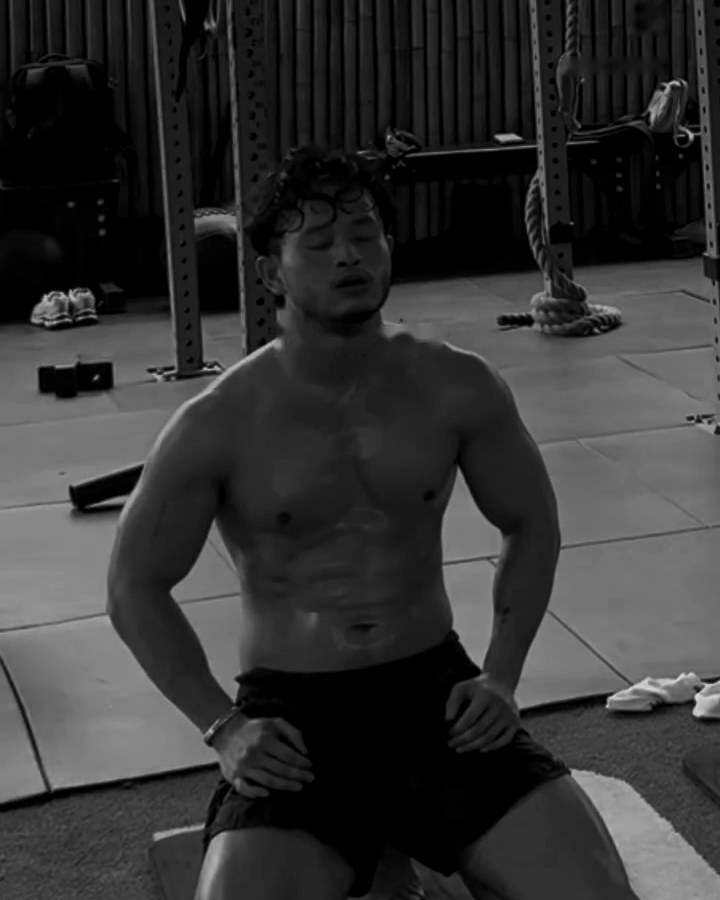
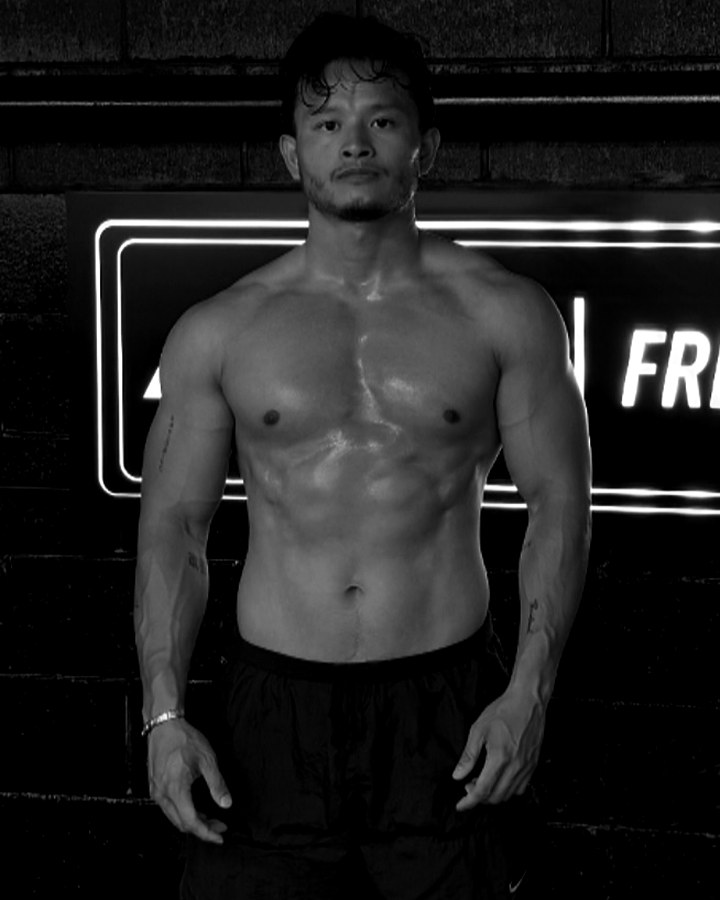
Use Alex's supplied before/after photos and add his portrait to About
Replace the reel frames in "Alex's journey" with the before/after photos
the project owner supplied, cropped to matching 4:5 framing and graded
black and white by scripts/supplied_photos.py (sources in assets/journey/).
His gym portrait becomes site.photos.about and leads the About row, which
stays three photos. The Before/Now tags move to the bottom corner so they
no longer cover his face on phones.

Claude-Session: https://claude.ai/code/session_01EqBEUoduZxMrd1bR9zTm1E

diff --git a/src/content/journey.ts b/src/content/journey.ts
@@ -26,12 +26,13 @@ export const journey: Journey = {
   intro:
     "Alex didn't start out as a coach. His own change came from turning up and getting 1% better every day. Now he helps others do the same: build strength, move better and improve their fitness, in classes, one-to-one and online.",
   chapters: [],
-  // Both from Alex's reel; overlays removed by scripts/journey_photos.py.
+  // Supplied by the project owner 2026-10-17 (sources in assets/journey/),
+  // cropped and graded by scripts/supplied_photos.py.
   before: { src: "/journey/before.jpg", width: 720, height: 900, alt: "Alex before he started kettlebell training" },
   after: { src: "/journey/after.jpg", width: 720, height: 900, alt: "Alex today, lean and muscular after kettlebell training" },
   beforeLabel: "Before",
   afterLabel: "Now",
-  caption: "Alex, before he started training and today. Both from his own reel.",
+  caption: "Alex, before he started training and today.",
   // Empty: the follower count is shown in "About Alex" directly above, and
   // "3 ways to train" said nothing new. Add real milestones from Alex here.
   highlights: [],

diff --git a/src/app/page.tsx b/src/app/page.tsx
@@ -1,6 +1,7 @@
 import type { Metadata } from "next";
 import Image from "next/image";
 import { site } from "@/content/site";
+import type { Photo } from "@/content/types";
 import { pageMetadata } from "@/lib/metadata";
 import { getPrimaryCta } from "@/lib/booking";
 import { cn } from "@/lib/cn";
@@ -129,7 +130,8 @@ function Benefits() {
 
 
 function About() {
-  const stills = site.trainingStills;
+  // Alex's portrait leads the row; it stays three photos either way.
+  const stills = [site.photos.about, ...site.trainingStills].filter((p): p is Photo => p !== null).slice(0, 3);
   const { instagram } = site.social;
   return (
     <Section id="about" labelledBy="about-heading">

diff --git a/src/components/sections/Journey.tsx b/src/components/sections/Journey.tsx
@@ -24,7 +24,8 @@ function PhotoFrame({ photo, label, slot }: { photo: Photo | null; label: string
           <span className="break-all text-xs">public/journey/{slot}.jpg</span>
         </div>
       )}
-      <span className="eyebrow absolute top-3 left-3 bg-paper px-2 py-1 text-ink">{label}</span>
+      {/* Bottom corner: at the top the tag covered his face on phones. */}
+      <span className="eyebrow absolute bottom-3 left-3 bg-paper px-2 py-1 text-ink">{label}</span>
     </div>
   );
 }

diff --git a/src/content/site.ts b/src/content/site.ts
@@ -98,7 +98,13 @@ export const site = {
   /** Genuine photos of Alex / his coaching only. Empty until supplied. */
   photos: {
     hero: null as Photo | null,
-    about: null as Photo | null,
+    // Supplied by the project owner 2026-10-17; cut by scripts/supplied_photos.py.
+    about: {
+      src: "/images/alex/about.jpg",
+      width: 720,
+      height: 900,
+      alt: "Alex standing in the gym among kettlebells",
+    } as Photo | null,
   },
 } as const;
 

diff --git a/scripts/supplied_photos.py b/scripts/supplied_photos.py
@@ -1,0 +1,42 @@
+"""Cut the photos of Alex supplied by the project owner (2026-10-17).
+
+Sources live in assets/journey/. Each is cropped to 4:5, resized to 720x900
+and given the hero video's black-and-white grade. The before/after pair use
+the same framing (head to waistband).
+
+Usage (needs Pillow):
+    python3 scripts/supplied_photos.py
+Outputs: public/journey/before.jpg, public/journey/after.jpg,
+         public/images/alex/about.jpg
+"""
+
+from pathlib import Path
+
+from PIL import Image, ImageOps
+
+ROOT = Path(__file__).resolve().parent.parent
+SRC_DIR = ROOT / "assets/journey"
+
+# source name: (output path, (x, y, width) of a 4:5 crop in the source)
+SHOTS = {
+    "before": ("public/journey/before.jpg", (0, 0, 1525)),  # 1525x1920 phone photo at home
+    "after": ("public/journey/after.jpg", (0, 20, 654)),  # 654x960 gym photo
+    "about": ("public/images/alex/about.jpg", (0, 20, 900)),  # 1206x1357, head to knees among the kettlebells
+}
+
+
+def main():
+    for name, (dest, (x, y, w)) in SHOTS.items():
+        image = ImageOps.exif_transpose(Image.open(SRC_DIR / f"{name}-source.jpg"))
+        h = round(w * 5 / 4)
+        crop = image.crop((x, y, x + w, y + h)).resize((720, 900), Image.LANCZOS)
+        # Same black-and-white grade as the hero video: slight contrast lift around mid-grey.
+        graded = ImageOps.grayscale(crop).point(lambda v: max(0, min(255, round((v - 128) * 1.08 + 128))))
+        out = ROOT / dest
+        out.parent.mkdir(parents=True, exist_ok=True)
+        graded.save(out, quality=88, optimize=True, progressive=True)
+        print(f"{name}: {out}")
+
+
+if __name__ == "__main__":
+    main()

diff --git a/DESIGN.md b/DESIGN.md
@@ -86,6 +86,7 @@ Display sizes were tuned so the longest word ("CUMBERNAULD") fits at 320 px.
 - Hero video (`site.heroVideo`): 4:5, black and white, silent, ~8 s loop of genuine footage — the visual centrepiece. Desktop (lg+): the right half of the grid, width `min(100%, (100svh − 7rem) × 0.8, 44rem)` with the height from the 4:5 ratio (never cropped or stretched), so headline, "Start your training" button and the whole video sit in the first view at 1024×768, 1366×768 and 1440×900 (564×705 px at 1440×900). The headline uses `text-display-split` at lg. Phones (<640 px): the video edge to edge directly under the header (it breaks out of the page gutters with `-mx-4`) at its full 4:5 frame, `object-fit: contain`, never cropped (390×488 on a 390 px phone). The headline (paper), the intro line beneath it (no eyebrow above it) (`site.location.town`: "Expert kettlebell coaching in Cumbernauld. Build strength, improve technique and move with confidence.") and a paper "Start your training" button sit over the lower part of the video on an ink fade (`from-ink/90 via-ink/70 via-65%`), so the whole video, headline and button fit the first screen even with Safari's toolbar showing. On phones the headline may start as high as 40% down the video (at 320 px the intro wraps to three lines). The pause button moves to the top right. DOM order (headline, button, video) is unchanged. Below lg the top 22% of the frame fades from `ink` into the footage (`from-ink via-ink/40`), so the ink header and the video read as one block; on tablets a 1.5rem `ink` strip also fills the gap between the header and the video. Both are decorative, `aria-hidden` overlays that change no sizes, and desktop is untouched because the video sits on paper clear of the header. Tablets (640–1023 px) use the same overlay inside the gutters: the video spans the content width, capped at `(100svh − 6.5rem) × 0.8` so the whole frame fits the first screen (720×900 at 768×1024). If no source loads, the poster stays and the pause/play control is removed. Enforced by e2e. Starts on its own as soon as the page opens and loops continuously, except for visitors with Reduce Motion on (changed 2026-10-16 at the project owner's request; previously it played for everyone): they see the poster, painted behind the video and shown by CSS from the first paint, and the play button starts the video. Otherwise: `autoplay muted loop playsinline` are in the server HTML so it starts before JavaScript, and an `ended` handler restarts it in any browser that ignores `loop`. MP4 (H.264) is listed first for reliable looping on Safari/iOS, WebM second. The poster is identical to the first frame and is also the container's background, so a still shows if the video cannot load. A 44 px pause/play button is always shown (WCAG 2.2.2); once paused it stays paused. Devices that block autoplay outright (e.g. iPhone Low Power Mode) show the poster, and the button starts it. The video is decorative (`aria-hidden`); the page must make sense without it.
 - Configure in `site.photos`; photos render in greyscale to sit within the monochrome system. Revisit if Alex prefers colour.
 - Without photos, layouts are typographic by design (no empty boxes).
+- About row: Alex's portrait (`site.photos.about`, supplied 2026-10-17) first, then the first two training stills, so it stays three photos.
 - Training stills (`site.trainingStills`): three sharp frames from the hero reel in the About section, staggered on desktop; on phones a swipeable, keyboard-scrollable row (72% wide, the next one peeks in). Frames showing other gyms' branding are excluded. Replace with proper photography when available.
 - Page header stills (`site.pageImages`): `/coaching` double-bell swing, `/contact` single-bell hold (cut from the hero loop by `scripts/video_stills.py`, which also repairs the caption-removal patch on the swing frame), `/classes` reuses the group front-rack still. Only sharp frames without other gyms' branding; motion-blurred clips and the "APEX" clips are excluded. Replace with proper photography when available.
 - Logo: the supplied artwork is white on black, so the derived PNGs are transparent white (alpha = source luminance) and must sit on **dark surfaces only** (ink header/footer). On a light surface the `Logo` component frames them in an ink tile.

diff --git a/CORE.md b/CORE.md
@@ -43,7 +43,7 @@ Legend: **C** confirmed · **P** provisional (needs client approval) · **U** un
 | Cancellation / refund rules | U | Do not publish |
 | One-to-one from £35/session; 4 sessions £130/month | C | Confirmed by the project owner 2026-10-15 (figures from the original brief); shown on the site |
 | Online coaching £79/month | C | Confirmed by the project owner 2026-10-15; shown on the site |
-| Alex's journey (story, before/after photos) | C | Published 2026-10-15 at the owner's request: before/after frames from his reel (`scripts/journey_photos.py`), short text written from his reel motto ("1% everyday") and bio. Swap in Alex's own story when supplied |
+| Alex's journey (story, before/after photos) | C | Published 2026-10-15 at the owner's request: before/after photos replaced 2026-10-17 with photos supplied by the project owner as Alex's own (`assets/journey/`, cut by `scripts/supplied_photos.py`; no dates, timeframe or figures given, so none are shown), short text written from his reel motto ("1% everyday") and bio. Swap in Alex's own story when supplied |
 | Coach's name | C | Alex Robertson (Instagram profile, 2026-10-15) |
 | Instagram followers | C | 9,651 on 2026-10-15, shown as "9.6k" (rounded down). Update occasionally |
 | Testimonials / client numbers | U | None supplied; never invent |

diff --git a/CONTENT.md b/CONTENT.md
@@ -65,7 +65,7 @@ Every customer-critical item has `status: "confirmed" | "provisional"`.
 | Vector (SVG) logo | Not available — the JPG is the only version | Don't request again; derived PNGs are the master web assets |
 | Hero video (9 clips, 8.3 s, B&W, silent, 4:5; opens on the group class) | Generated 2026-10-15 from Alex's reel | `public/media/hero.webm`, `hero.mp4`, `hero-poster.jpg`; configured as `site.heroVideo`. Regenerate with `scripts/hero_video.py` (source reel not committed — 30 MB) |
 | Hero photo of Alex coaching | Not needed while the video is set | `public/images/`, set `site.photos.hero` |
-| About photo | Missing | `public/images/`, set `site.photos.about` |
+| About photo | Supplied 2026-10-17 | `public/images/alex/about.jpg` (`site.photos.about`), first in the About row |
 
 Regenerate all derived logo files with `python3 scripts/brand_assets.py` (needs Pillow) if the source changes.
 

diff --git a/ARCHITECTURE.md b/ARCHITECTURE.md
@@ -39,6 +39,14 @@ don't need Python.
 Pillow was used because `sharp` (bundled with Next) has no native binary in
 the development container.
 
+### Supplied photos of Alex
+
+`scripts/supplied_photos.py` (Python + Pillow, run manually) crops the
+photos in `assets/journey/` to 4:5 (the before/after pair with matching
+framing), resizes them to 720×900 and applies the hero video's black-and-white
+grade, writing `public/journey/before.jpg`, `after.jpg` and
+`public/images/alex/about.jpg` (committed).
+
 ### Hero video
 
 `scripts/hero_video.py` (Python + OpenCV + numpy + ffmpeg, run manually)
